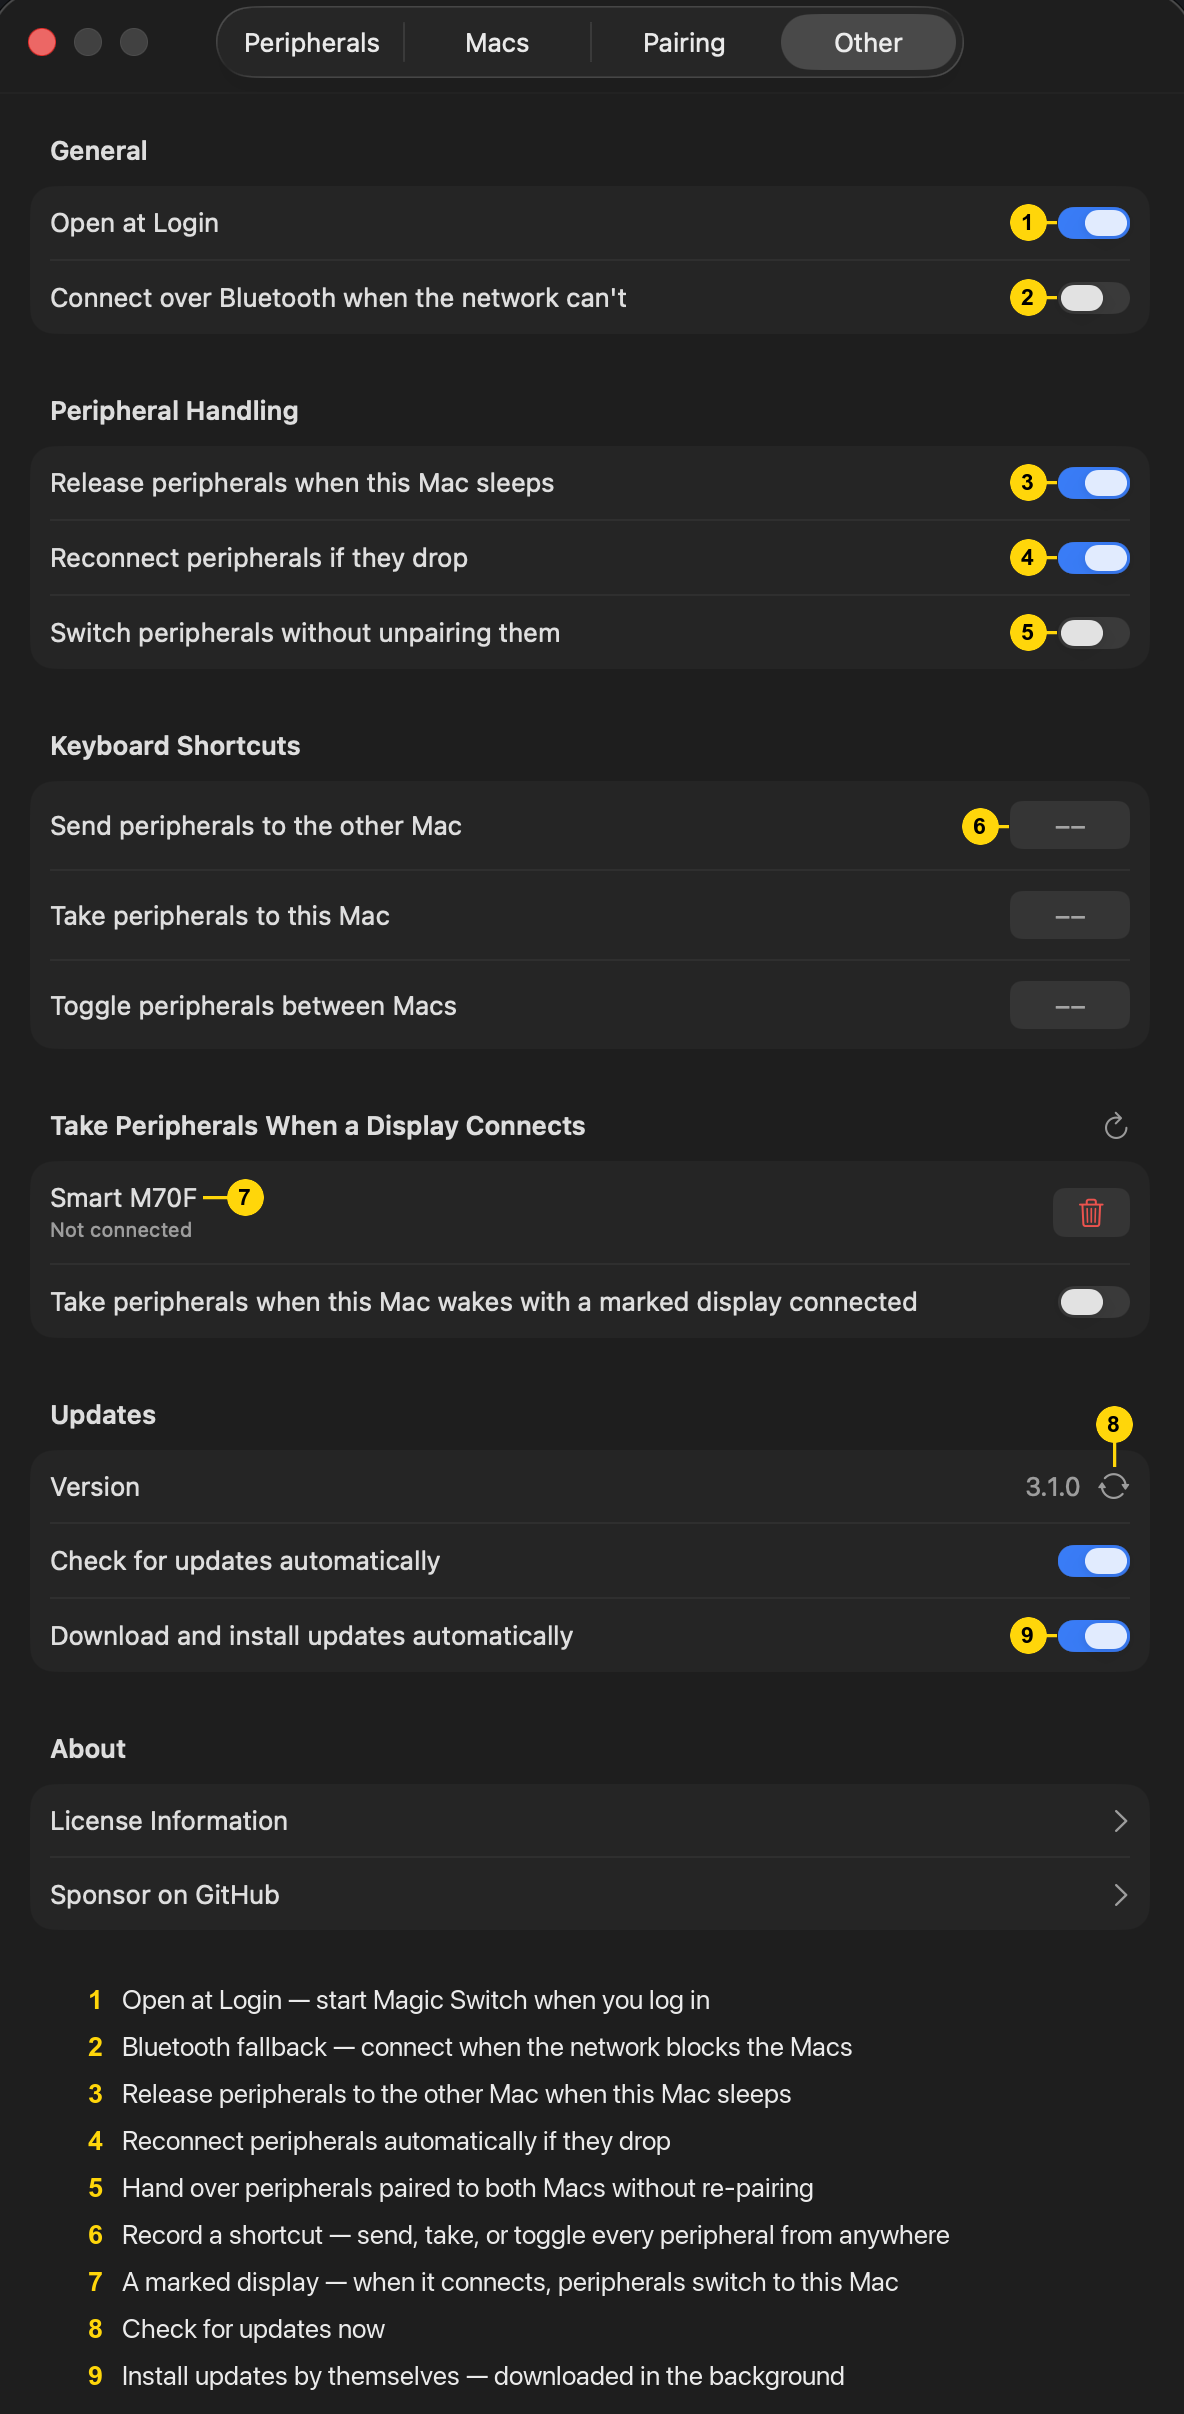
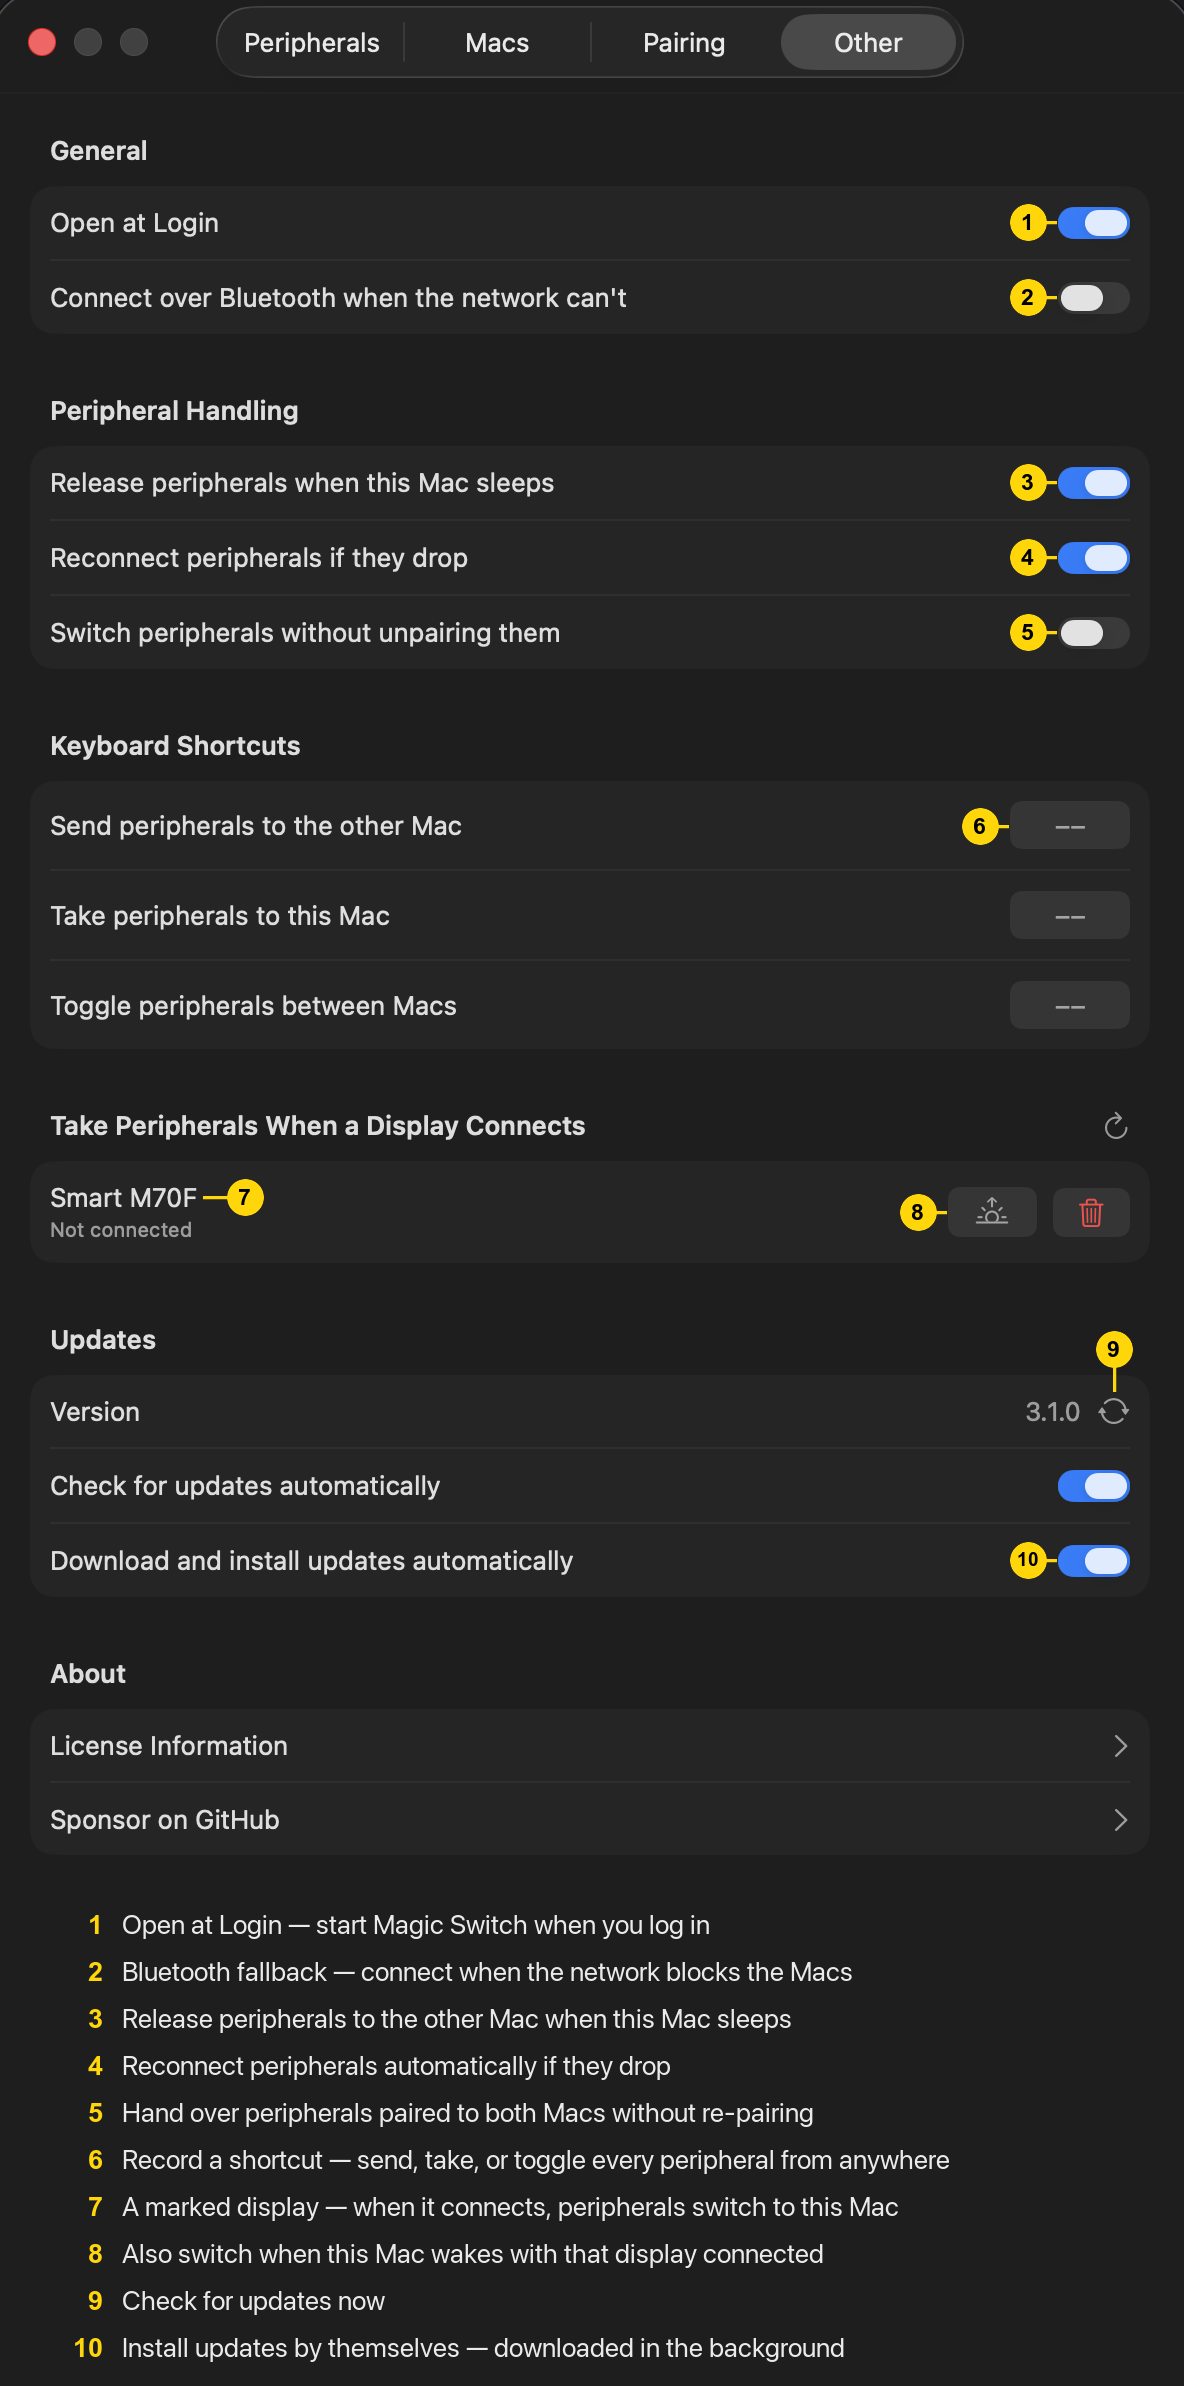
feat: choose per display whether waking with it connected takes peripherals (#191)
The wake setting applied to every marked display. Each marked display's
row now has a sunrise toggle, next to the trash or switch, so wake is
chosen per display. The old setting carries over to all marked displays.
Screenshot updated.

diff --git a/Magic Switch/Manager/DisplayMonitor.swift b/Magic Switch/Manager/DisplayMonitor.swift
@@ -27,8 +27,8 @@ import SwiftUI
 ///   was *not* present at sleep still fires normally, which is exactly the
 ///   carry-the-MacBook-over, plug-in, lid-opens flow the feature exists for.
 ///
-/// With `takeOnWake` on, waking with a trigger display connected fires too —
-/// the one deliberate non-edge.
+/// A trigger display also marked for wake fires when this Mac wakes with it
+/// connected — the one deliberate non-edge.
 final class DisplayMonitor: ObservableObject {
   // MARK: - Singleton
 
@@ -57,7 +57,7 @@ final class DisplayMonitor: ObservableObject {
     /// Generous on purpose: it never delays a genuine trigger (a display
     /// absent at sleep is exempt); it only shields re-appearances.
     static let wakeSettleWindow: TimeInterval = 30
-    /// How long after wake a `takeOnWake` take waits, so peripherals still
+    /// How long after wake a wake-display take waits, so peripherals still
     /// bonded to this Mac can reconnect on their own first. Matches the
     /// store's `wakeReclaimDelay`.
     static let wakeTakeDelay: TimeInterval = 5
@@ -70,9 +70,8 @@ final class DisplayMonitor: ObservableObject {
   /// string lives here as the single source of truth.
   static let triggerDisplaysDefaultsKey = "displayTriggerDisplays"
 
-  /// `@AppStorage` key for also firing when this Mac wakes with a trigger
-  /// display connected. Off by default.
-  static let takeOnWakeDefaultsKey = "displayTriggerTakeOnWake"
+  private static let wakeTriggerDisplaysDefaultsKey = "displayTriggerWakeDisplays"
+  private static let legacyTakeOnWakeDefaultsKey = "displayTriggerTakeOnWake"
 
   // MARK: - Properties
 
@@ -87,11 +86,17 @@ final class DisplayMonitor: ObservableObject {
     didSet { saveTriggerDisplays() }
   }
 
+  /// Trigger displays that also fire when this Mac wakes with them
+  /// connected. Always a subset of `triggerDisplays`' keys. Persisted.
+  @Published private(set) var wakeTriggerDisplays: Set<String> = [] {
+    didSet {
+      UserDefaults.standard.set(
+        wakeTriggerDisplays.sorted(), forKey: Self.wakeTriggerDisplaysDefaultsKey)
+    }
+  }
+
   @AppStorage(DisplayMonitor.triggerDisplaysDefaultsKey)
   private var triggerDisplaysData: Data = Data()
-
-  @AppStorage(DisplayMonitor.takeOnWakeDefaultsKey)
-  private var takeOnWake: Bool = false
 
   /// Called on the main run loop with the names of trigger displays that
   /// just connected (usually one; a dock can bring up several at once), and
@@ -124,7 +129,7 @@ final class DisplayMonitor: ObservableObject {
   /// Main-only.
   private var wakeTakePending = false
 
-  /// Earliest a `takeOnWake` take may start. Main-only.
+  /// Earliest a wake-display take may start. Main-only.
   private var wakeTakeNotBefore: Date = .distantPast
 
   /// Debounce timer for `reconcile()`; see `Constants.reconcileDebounce`.
@@ -137,6 +142,7 @@ final class DisplayMonitor: ObservableObject {
 
   private init() {
     loadTriggerDisplays()
+    loadWakeTriggerDisplays()
   }
 
   /// Begin monitoring. Populates the Settings rows right away, schedules a
@@ -193,6 +199,18 @@ final class DisplayMonitor: ObservableObject {
       triggerDisplays[id] = name
     } else {
       triggerDisplays.removeValue(forKey: id)
+      wakeTriggerDisplays.remove(id)
+    }
+  }
+
+  /// Make the trigger display with `id` also fire when this Mac wakes with it
+  /// connected. No-op for a display that isn't a trigger. Main-thread only.
+  func setTakeOnWake(_ enabled: Bool, id: String) {
+    if enabled {
+      guard triggerDisplays[id] != nil else { return }
+      wakeTriggerDisplays.insert(id)
+    } else {
+      wakeTriggerDisplays.remove(id)
     }
   }
 
@@ -255,12 +273,13 @@ final class DisplayMonitor: ObservableObject {
         && triggerDisplays[display.id] != nil
         && !(settling && presentAtSleep.contains(display.id))
     }
-    let onWake = docked.isEmpty && settling && wakeTakePending && takeOnWake
+    let wakeDisplays = online.filter { wakeTriggerDisplays.contains($0.id) }
+    let onWake = docked.isEmpty && settling && wakeTakePending && !wakeDisplays.isEmpty
     if onWake, Date() < wakeTakeNotBefore {
       scheduleReconcile()
       return
     }
-    let triggered = onWake ? online.filter { triggerDisplays[$0.id] != nil } : docked
+    let triggered = onWake ? wakeDisplays : docked
     guard !triggered.isEmpty else { return }
     Log.app.notice(
       "DisplayMonitor: trigger display(s) \(onWake ? "present at wake" : "connected"): \(triggered.map { $0.name })"
@@ -372,5 +391,15 @@ final class DisplayMonitor: ObservableObject {
     } catch {
       Log.app.error("Failed to load trigger displays: \(error)")
     }
+  }
+
+  private func loadWakeTriggerDisplays() {
+    let defaults = UserDefaults.standard
+    var stored = Set(defaults.stringArray(forKey: Self.wakeTriggerDisplaysDefaultsKey) ?? [])
+    if defaults.bool(forKey: Self.legacyTakeOnWakeDefaultsKey) {
+      stored.formUnion(triggerDisplays.keys)
+    }
+    defaults.removeObject(forKey: Self.legacyTakeOnWakeDefaultsKey)
+    wakeTriggerDisplays = stored.intersection(triggerDisplays.keys)
   }
 }

diff --git a/Magic Switch/View/Settings/OtherSettingsView.swift b/Magic Switch/View/Settings/OtherSettingsView.swift
@@ -18,8 +18,6 @@ struct OtherSettingsView: View {
   private var autoReconnect: Bool = true
   @AppStorage(BluetoothPeripheralStore.keepPairingsOnSwitchDefaultsKey)
   private var keepPairingsOnSwitch: Bool = false
-  @AppStorage(DisplayMonitor.takeOnWakeDefaultsKey)
-  private var takeOnWake: Bool = false
 
   // MARK: - View Content
 
@@ -114,13 +112,6 @@ struct OtherSettingsView: View {
             displayRow(for: row)
           }
         }
-        Toggle(
-          "Take peripherals when this Mac wakes with a marked display connected", isOn: $takeOnWake
-        )
-        .disabled(displayMonitor.triggerDisplays.isEmpty)
-        .help(
-          "Switch your peripherals to this Mac when it wakes with a marked display connected, even if your other Mac is using them."
-        )
       } header: {
         HStack {
           Text("Take Peripherals When a Display Connects")
@@ -253,14 +244,23 @@ struct OtherSettingsView: View {
   /// A connected display gets the trigger toggle; a remembered-but-
   /// disconnected one gets a trash button instead — with nothing to toggle
   /// *to* (unmarking is forgetting; the trigger map is the only memory),
-  /// a toggle would just be a remove control in disguise.
+  /// a toggle would just be a remove control in disguise. Marked displays
+  /// also get the wake toggle.
   @ViewBuilder
   private func displayRow(for row: DisplayRow) -> some View {
     if row.isConnected {
-      Toggle(row.name, isOn: triggerBinding(for: row))
-        .help(
-          "Switch your peripherals to this Mac whenever \(row.name) connects. Display ID: \(row.id)."
-        )
+      HStack {
+        Text(row.name)
+        Spacer()
+        if displayMonitor.triggerDisplays[row.id] != nil {
+          wakeToggle(for: row)
+        }
+        Toggle(row.name, isOn: triggerBinding(for: row))
+          .labelsHidden()
+      }
+      .help(
+        "Switch your peripherals to this Mac whenever \(row.name) connects. Display ID: \(row.id)."
+      )
     } else {
       HStack {
         VStack(alignment: .leading, spacing: 2) {
@@ -273,6 +273,7 @@ struct OtherSettingsView: View {
           "\(row.name) isn't connected right now. It still triggers the switch when it next connects. Display ID: \(row.id)."
         )
         Spacer()
+        wakeToggle(for: row)
         Button(action: { displayMonitor.setTriggerEnabled(false, id: row.id, name: row.name) }) {
           Image(systemName: "trash")
             .foregroundColor(.red)
@@ -281,6 +282,24 @@ struct OtherSettingsView: View {
         .accessibilityLabel("Forget \(row.name)")
       }
     }
+  }
+
+  private func wakeToggle(for row: DisplayRow) -> some View {
+    let isOn = displayMonitor.wakeTriggerDisplays.contains(row.id)
+    return Toggle(
+      isOn: Binding(
+        get: { isOn },
+        set: { displayMonitor.setTakeOnWake($0, id: row.id) }
+      )
+    ) {
+      Image(systemName: isOn ? "sunrise.fill" : "sunrise")
+        .foregroundColor(isOn ? nil : .secondary)
+    }
+    .toggleStyle(.button)
+    .help(
+      "Also take your peripherals when this Mac wakes with \(row.name) connected, even if your other Mac is using them."
+    )
+    .accessibilityLabel("Take peripherals on wake with \(row.name)")
   }
 
   private func triggerBinding(for row: DisplayRow) -> Binding<Bool> {

diff --git a/Magic Switch/AppDelegate/AppDelegate.swift b/Magic Switch/AppDelegate/AppDelegate.swift
@@ -838,8 +838,8 @@ final class AppDelegate: NSObject, NSApplicationDelegate, NSMenuDelegate,
     HotkeyManager.shared.start()
   }
 
-  /// A trigger display just connected, or this Mac woke with one connected
-  /// (runs on main). Announce it, then take the full set through the shared
+  /// A trigger display just connected, or this Mac woke with one marked for
+  /// wake connected (runs on main). Announce it, then take the full set through the shared
   /// external-claim engine below.
   private func handleTriggerDisplaysConnected(_ names: [String], onWake: Bool) -> Bool {
     let displays = ListFormatter.localizedString(byJoining: names)

diff --git a/README.md b/README.md
@@ -175,7 +175,7 @@ After any update, including one installed when Magic Switch quit, the new versio
 - **Closing or sleeping one Mac hands its peripherals to the other.** When this Mac sleeps (or you close its lid), it hands the peripherals it holds to your other Mac — or, if that Mac isn't reachable yet, frees them so it can pick them up the moment it wakes. That's why you can close one Mac and find the keyboard and mouse already on the other. This is on by default; you can turn it off under **Settings → Other → "Release peripherals when this Mac sleeps."**
 - **A peripheral didn't come back after sleep or a lid-close.** Apple's Magic devices sometimes get stuck once the Bluetooth radio sleeps and won't reconnect — even a manual reconnect fails until you switch the peripheral **off and on** with its power switch. Magic Switch keeps watching for anything that was on this Mac before it slept: the moment the device reappears (which a power-cycle triggers), it reconnects automatically — as long as your other Mac isn't actively using it. This is on by default; you can turn it off under **Settings → Other → "Reconnect peripherals if they drop."**
 - **Both Macs slept, and now a peripheral connects to neither.** When this Mac sleeps, it frees its peripherals for your other Mac to take (see above). If the other Mac never takes them — it was asleep too, or off the network the whole time — they end up attached to no Mac at all, and a Magic device in that state stops listening for connections after a short while; no Mac can reach it until it's woken up. When this Mac wakes it immediately tries to grab everything it freed, so a round trip usually recovers on its own — clicking or pressing a key on the peripheral within the first minute after opening the lid helps it get caught. If a peripheral still won't respond, this is the one situation where you have to help: flick its power switch **off and on**, and Magic Switch reconnects it the moment it comes back up. If that trade-off doesn't suit how you use your Macs, turn off **Settings → Other → "Release peripherals when this Mac sleeps"** — peripherals then stay bonded to this Mac across sleep (and reconnect instantly on wake), at the cost of the other Mac needing the same power-cycle help if you switch desks while this Mac sleeps.
-- **Docking to a marked display switches peripherals automatically.** Under **Settings → Other → "Take Peripherals When a Display Connects,"** every external display connected to this Mac gets a toggle. Mark your desk's display and, whenever it connects to this Mac — plugging in the cable, or opening the lid of a MacBook that was docked while it slept — Magic Switch switches your peripherals to this Mac, taking them from your other Mac if needed. Displays are recognized individually, so two identical monitors aren't confused; waking while already docked doesn't count as docking unless you turn on **"Take peripherals when this Mac wakes with a marked display connected"** below the list; and if a marked display is already connected when Magic Switch starts, it switches your peripherals over just as if you had docked. This is off until you mark a display.
+- **Docking to a marked display switches peripherals automatically.** Under **Settings → Other → "Take Peripherals When a Display Connects,"** every external display connected to this Mac gets a toggle. Mark your desk's display and, whenever it connects to this Mac — plugging in the cable, or opening the lid of a MacBook that was docked while it slept — Magic Switch switches your peripherals to this Mac, taking them from your other Mac if needed. Displays are recognized individually, so two identical monitors aren't confused; waking while already docked doesn't count as docking unless you click the sunrise button on that display's row; and if a marked display is already connected when Magic Switch starts, it switches your peripherals over just as if you had docked. This is off until you mark a display.
 
 ## Developer notes
 
